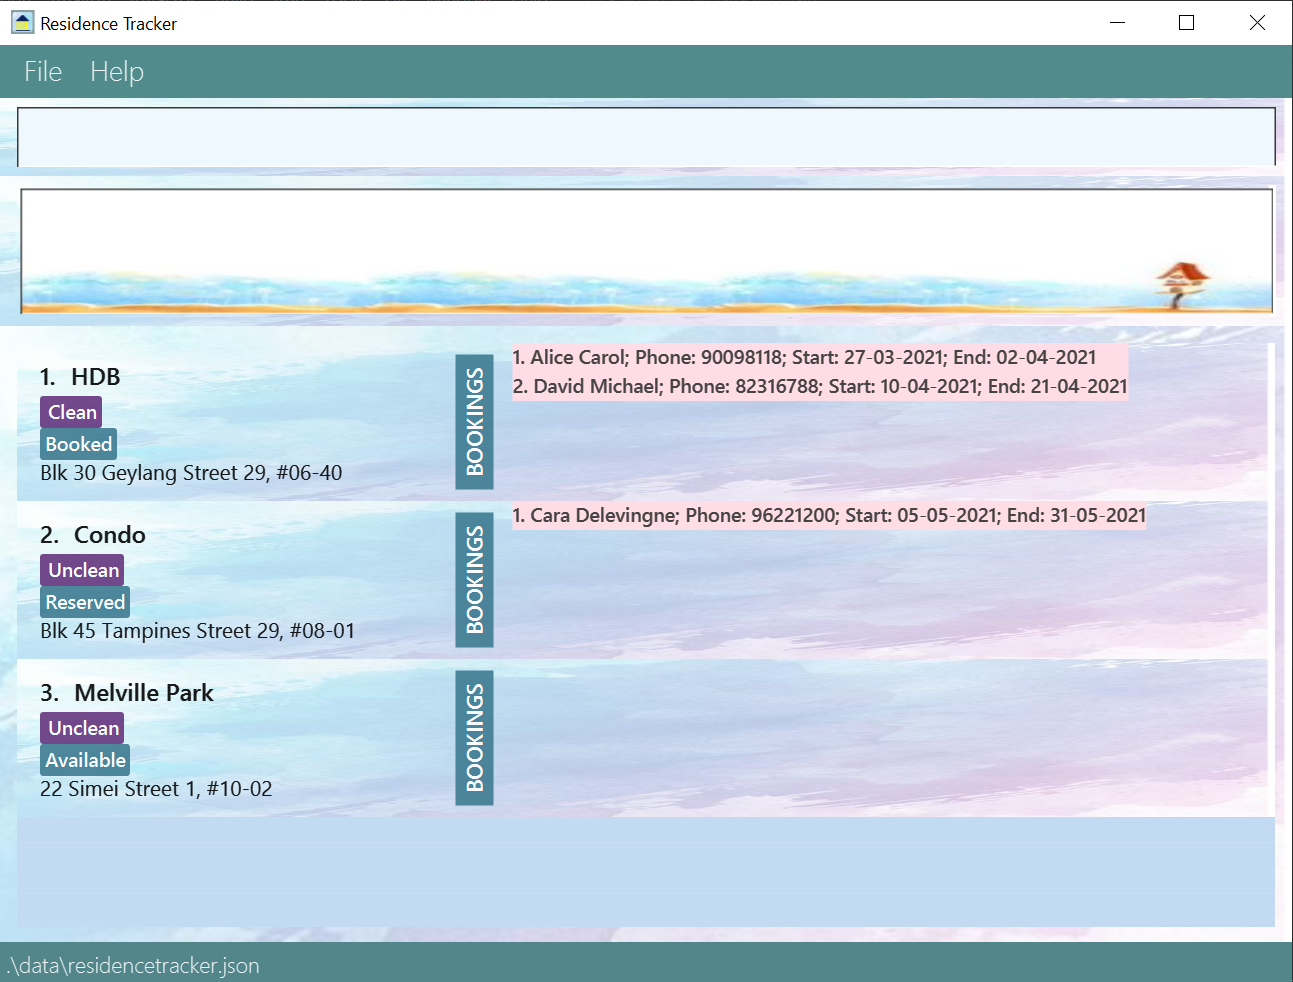
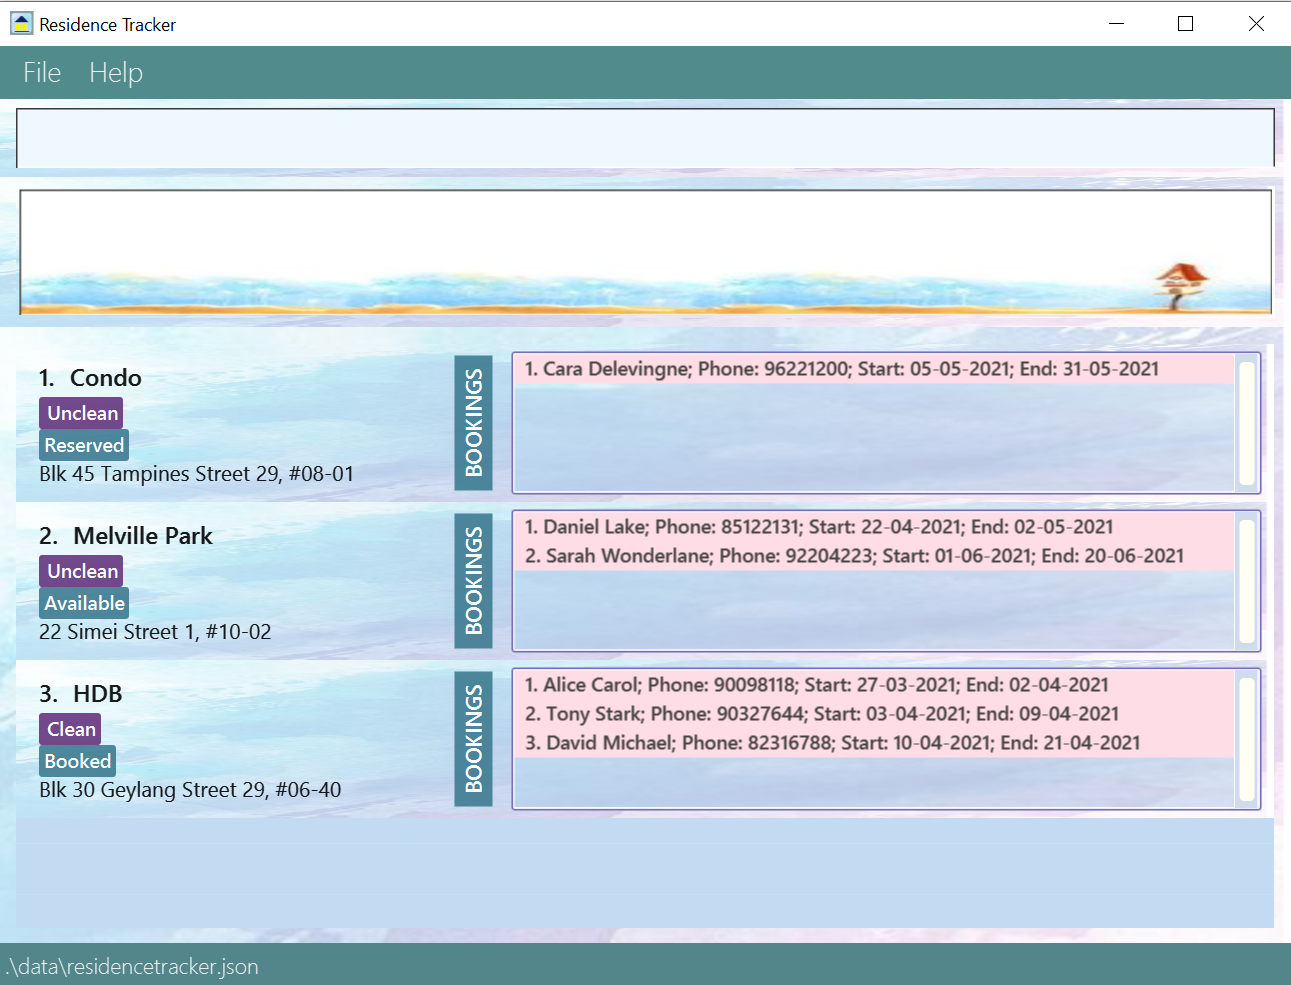
Modified Ui's bookinglist showcase from FlowPane to ScrollPane

diff --git a/src/main/resources/view/DarkTheme.css b/src/main/resources/view/DarkTheme.css
@@ -405,3 +405,17 @@
     -fx-text-fill: white;
     -fx-background-color: #3e7b91;
 }
+
+#bookingListVBox {
+    -fx-background-image: url(/images/ScrollPaneBackground.png);
+}
+
+#bookingListScrollPane {
+    /*-fx-border-style: dotted;*/
+    -fx-border-color: #7772b6;
+    -fx-border-radius: 2px;
+}
+
+#bookingListScrollPane .scroll-bar:vertical .thumb {
+    -fx-background-color: #fffef2;
+}

diff --git a/src/main/java/seedu/address/ui/ResidenceCard.java b/src/main/java/seedu/address/ui/ResidenceCard.java
@@ -5,9 +5,11 @@ import java.util.Comparator;
 import javafx.collections.ObservableList;
 import javafx.fxml.FXML;
 import javafx.scene.control.Label;
+import javafx.scene.control.ScrollPane;
 import javafx.scene.layout.FlowPane;
 import javafx.scene.layout.HBox;
 import javafx.scene.layout.Region;
+import javafx.scene.layout.VBox;
 import seedu.address.model.booking.Booking;
 import seedu.address.model.residence.Residence;
 
@@ -35,6 +37,10 @@ public class ResidenceCard extends UiPart<Region> {
     private FlowPane cleanStatusTags;
     @FXML
     private FlowPane tags;
+    @FXML
+    private ScrollPane bookingListScrollPane;
+    @FXML
+    private VBox bookingListVBox;
 
     /**
      * Creates a {@code PersonCode} with the given {@code Person} and index to display.
@@ -53,9 +59,10 @@ public class ResidenceCard extends UiPart<Region> {
                 .forEach(tag -> tags.getChildren().add(new Label(tag.tagName)));
 
         ObservableList<Booking> bookingList = residence.getBookingList().getValue();
-        bookingList.stream().sorted(Comparator.comparing(booking -> booking.getStart()))
-                .forEach(booking -> bookingListPane.getChildren()
-                        .add(new Label(String.valueOf(bookingList.indexOf(booking) + 1) + ". " + booking.toString())));
+        bookingList.stream().forEach(booking -> bookingListPane.getChildren().add(new Label("  "
+                + String.valueOf(bookingList.indexOf(booking) + 1)
+                + ". "
+                + booking.toString())));
     }
 
 

diff --git a/src/main/java/seedu/address/model/residence/BookingList.java b/src/main/java/seedu/address/model/residence/BookingList.java
@@ -121,16 +121,6 @@ public class BookingList implements Iterable<Booking> {
     }
 
     /**
-     * Returns the index of a {@code Booking}
-     *
-     * @param booking that contains in the list
-     */
-    public int getIndex(Booking booking) {
-        ObservableList<Booking> tempList = internalUnmodifiableList.sorted();
-        return tempList.indexOf(booking);
-    }
-
-    /**
      * Returns the backing list as an unmodifiable {@code ObservableList}.
      */
     public ObservableList<Booking> getValue() {
